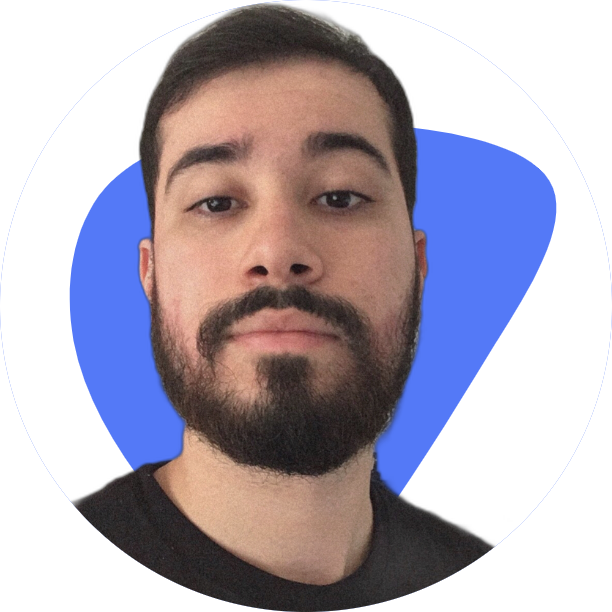
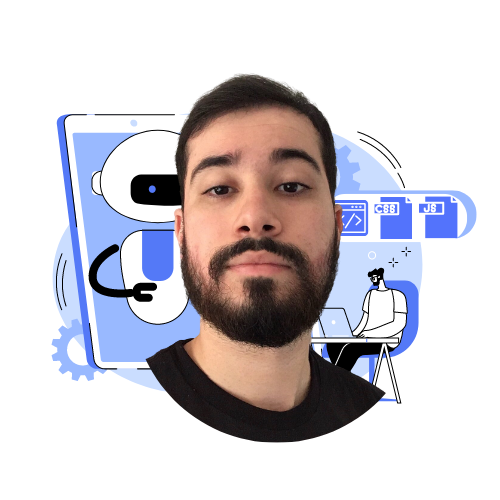
Links

diff --git a/style.css b/style.css
@@ -6,18 +6,29 @@
 :root{
     --font01: 'Poppins', sans-serif;
     --colorbackgroud: #000000;
-    --backicons: #000000;
-    --cordoslidebotao: #ffffff;
-    --icones: #ffffff;
-    --share: #000000;
+    --backicons: #ffffff;
+    --cordoslidebotao: #5479F7;
+    --icones:#000000;
+    --share: #ffffff;
     
+    
+}
+
+.container{
+    display: flex;
+    justify-content: center;
+    flex-direction: row;
+    margin-bottom: 10px;
     
 }
 
 
 body{
-    background-image: url(imagens/pexels-ken-tomita-389818.jpg);
+    background-image: url(imagens/backgroud.png);
     background-position: center center;
+    background-repeat: no-repeat;
+    background-size: cover;
+    height: 100vh;
     margin: 0px;
     padding: 0px;
     font-family:var(--font01);
@@ -25,17 +36,20 @@ body{
     height: 100vh;
     align-items: center;
     justify-content: center;
+    flex-direction: row;
 }
 
 
 .share-button{
-    width: 280px;
-    height: 80px;
+    margin-top: -40px;
+    width: 450px;
+    height: 92px;
     background: var(--backicons);
     border-radius: 12px;
     display: flex;
     align-items: center;
     justify-content: center;
+    flex-direction: row;
     overflow: hidden;
     position: relative;
     cursor: pointer;
@@ -57,8 +71,9 @@ body{
     z-index: 999;
     transition: 0.43 linear;
     border-radius: 12px;
-    font-size: 1.4rem;
+    font-size: 30px;
     font-weight:600;
+    
 
 }
 
@@ -69,7 +84,7 @@ body{
 
 .share-button a {
     flex: 1;
-    font-size: 26px;
+    font-size: 35px;
     color: var(--icones);
     text-align: center;
     transform: translateX(-100%);
@@ -83,18 +98,22 @@ body{
 }
 
 div.footer {
-    
-    margin-bottom: -99vh;
-    position: absolute;
-    background-size: 99vh 99vw;
-    color: rgb(0, 0, 0);
-  
+    margin-top: 30px;
+    text-align: center;
+    align-items: center;
+    justify-content: center center;
+    flex-direction: row;
+    color: rgb(255, 255, 255);
    
-    
 }
 
 div.footer a {
-    color: white;
+    color: #5479F7;
+    text-decoration: none;
     
 }
 
+div.footer a:hover{
+    text-decoration: underline;
+    
+}

diff --git a/index.html b/index.html
@@ -6,22 +6,31 @@
     <meta name="viewport" content="width=device-width, initial-scale=1.0">
     <link rel="stylesheet" href="https://cdnjs.cloudflare.com/ajax/libs/font-awesome/6.2.0/css/all.min.css" integrity="sha512-xh6O/CkQoPOWDdYTDqeRdPCVd1SpvCA9XXcUnZS2FmJNp1coAFzvtCN9BmamE+4aHK8yyUHUSCcJHgXloTyT2A==" crossorigin="anonymous" referrerpolicy="no-referrer" />
     <link rel="stylesheet" href="style.css">
-    <title>Animações de ícones part 2</title>
+    <link rel="shortcut icon" href="FAVICON/favicon.ico" type="image/x-icon">
+    <title>Fale Comigo.</title>
 </head>
 <body>
-   
+ 
+<div class="cotainer">
+    <div class="conteudo">
+        <img src="imagens/eu.png" alt="Perfil" width="470px">
+    </div>
+    
     <div class="share-button">
-        <span>Meus contatos!</span>
+        <span>Meus Contatos.</span>
         <a href="#" target="_blank"><i class="fa-brands fa-whatsapp"></i></a>
         <a href="https://www.linkedin.com/in/lucas-balbino-da-silva-25282921b/" target="_blank"><i class="fa-brands fa-linkedin"></i></a>
         <a href="https://github.com/Lucasbsilva11" target="_blank"><i class="fa-brands fa-github"></i></a>
         <a href="mailto:Lucas.bsilva23@hotmail.com" target="_blank"><i class="fa-solid fa-envelope"></i></a>
+        
     </div>
-    
     <div class="footer" >
         <p><i class="fa-regular fa-copyright"></i> Criado por <a href="https://www.instagram.com/lucas.bsilva25/" target="_blank">Lucas B</a>
             . All Rights Reserved</p>
     </div>
+</div>
+    
+   
     
 </body>
 </html>
